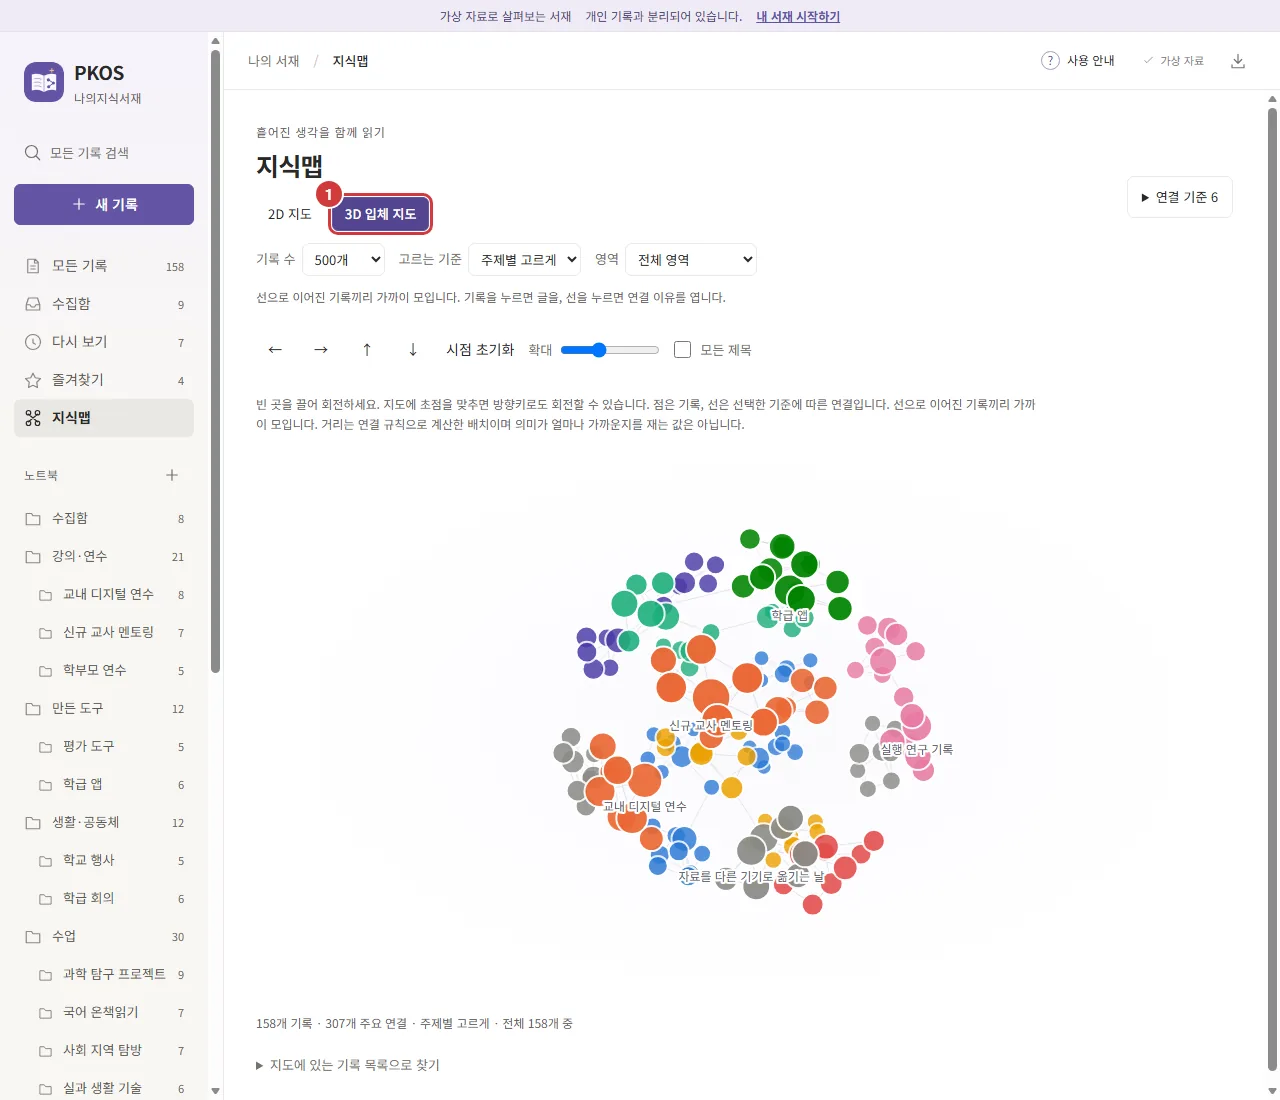
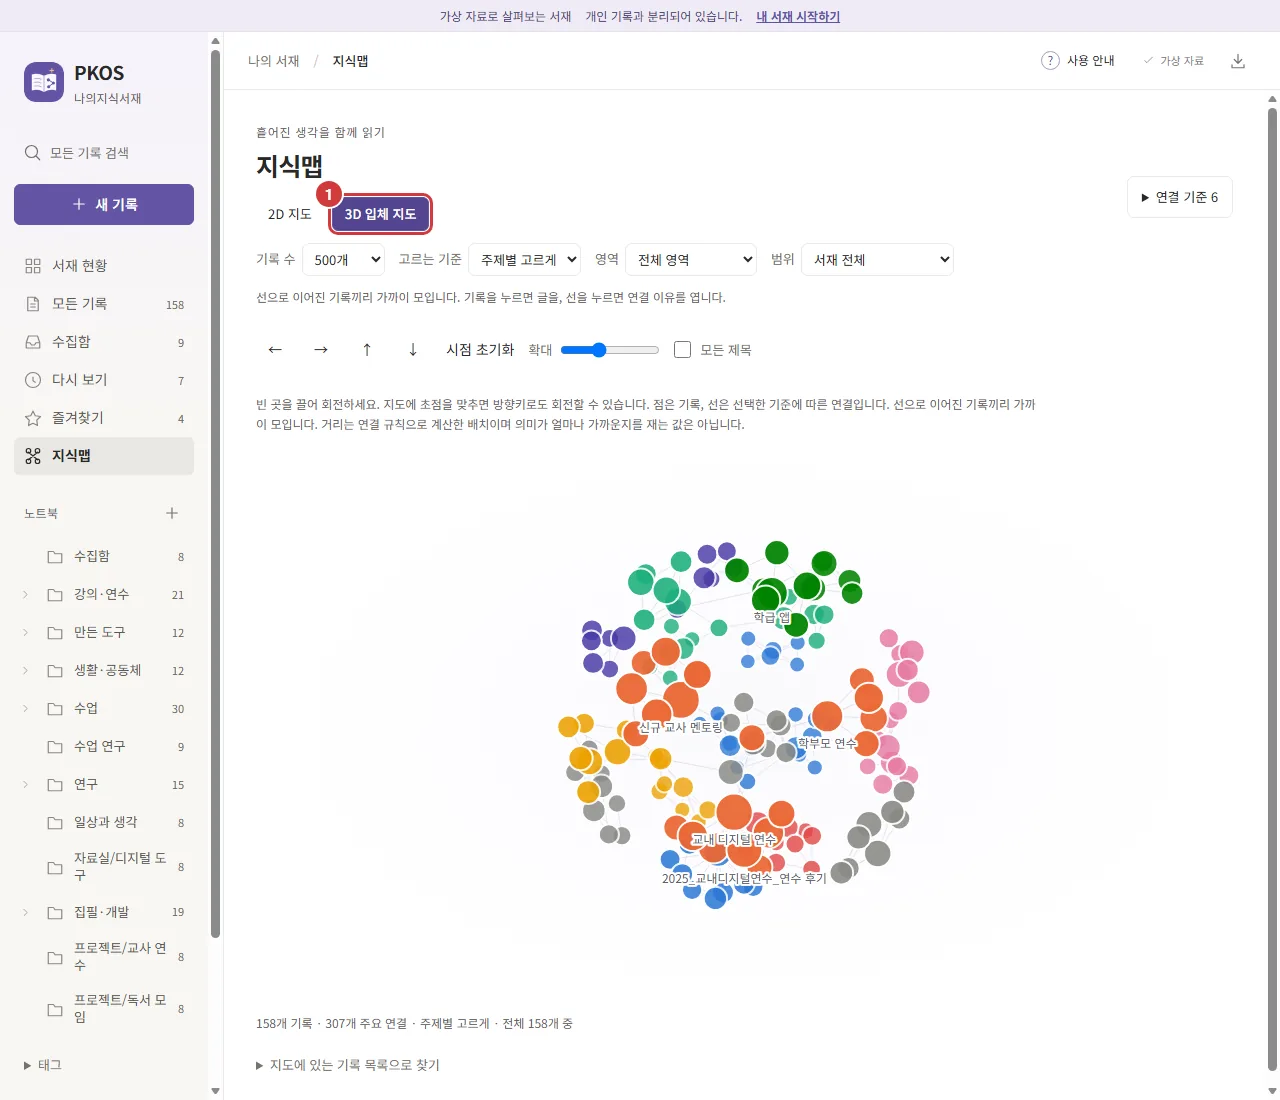
기록장 화면 사진 19장을 최신 판으로, 자료 정보·드라이브 미리보기 안내
- 기록장 사진 19장을 사용 설명서의 새 화면(서재 현황 메뉴, 노트북 접기, 자료 정보 상자, 속성 줄)으로 다시 만듦(같은 크기, WebP 품질 82)
- 03장 카드 읽기: 자료 정보 상자와 묶음 링크, 보기 전용 드라이브 미리보기
- 기록장 소개, 준비물 표의 구글 계정 줄, 만든 과정에 10월 5일

diff --git a/index.html b/index.html
@@ -70,7 +70,7 @@
       <article class="tool" style="--color:var(--blue)">
         <span class="kind">TOOL 1 · 기록장</span><h3>PKOS 나의지식서재</h3><p class="alias">기록하고 연결하는 개인 서재</p>
         <p>메모와 문서, 사진을 한곳에 보관하고 내 생각을 덧붙여 기록끼리 이어 줍니다. 로그인 없이 쓰며 기록은 내 브라우저에 저장됩니다.</p>
-        <ul><li>노트북과 태그로 정리하고 낱말로 찾기</li><li>서재 현황: 출처·연도·주제별 수, 조건 겹쳐 찾기, AI에게 건네기</li><li>문서 본문과 그림 꺼내기</li><li>2D·3D 지식맵</li><li>첨부까지 담는 백업, 마크다운 내보내기</li></ul>
+        <ul><li>노트북과 태그로 정리하고 낱말로 찾기</li><li>서재 현황: 출처·연도·주제별 수, 조건 겹쳐 찾기, AI에게 건네기</li><li>자료 카드의 자료 정보와 구글 드라이브 미리보기(보기 전용)</li><li>문서 본문과 그림 꺼내기</li><li>2D·3D 지식맵</li><li>첨부까지 담는 백업, 마크다운 내보내기</li></ul>
         <div class="toolfoot"><div class="toolbtns"><a class="toolopen" href="https://legoschool.github.io/pkos-library/?demo=1" target="_blank" rel="noopener">체험 서재 열기 ↗</a><a href="https://github.com/legoschool/pkos-library" target="_blank" rel="noopener">깃허브 저장소 ↗</a><a href="#b01">01–05 블록 보기</a></div><img src="qr/lib-repo.svg" alt="기록장 깃허브 저장소 QR 코드" width="96" height="96"></div>
       </article>
       <article class="tool" style="--color:var(--green)">
@@ -118,7 +118,7 @@
       <h3>준비물</h3>
       <div class="tablewrap"><table><thead><tr><th>준비물</th><th>어디에 쓰나</th><th>없을 때</th></tr></thead><tbody>
         <tr><td>PC의 크롬 또는 엣지</td><td>세 도구 모두에 씁니다. 제작기의 폴더 고르기와 기록장의 카드 파일 자동 반영은 PC의 크롬·엣지에서만 됩니다.</td><td>휴대폰에서는 기록장을 읽고 쓰는 데까지 됩니다.</td></tr>
-        <tr><td>구글 계정</td><td>변환기를 코랩에서 실행할 때 필요합니다.</td><td>변환기는 Windows 앱이나 교재판으로 씁니다.</td></tr>
+        <tr><td>구글 계정</td><td>변환기를 코랩에서 실행할 때 필요합니다. 기록장 카드의 「원본 열기」·「드라이브 미리보기」도 그 파일을 볼 수 있는 계정으로 로그인한 브라우저에서 열립니다.</td><td>변환기는 Windows 앱이나 교재판으로 씁니다.</td></tr>
         <tr><td>구글 드라이브 데스크톱 (내 드라이브 자료를 PC에서 쓸 때)</td><td>기록장 카드의 「탐색기」·「경로 복사」, 드라이브에 둔 카드 파일과 백업 폴더 연결, 변환기 Windows 앱·교재판으로 드라이브 폴더를 바꿀 때, 드라이브에 둔 제작기 작업 폴더에 씁니다. 쓰는 폴더는 「오프라인으로 사용」으로 둡니다.</td><td>체험 서재 실습, 기록 쓰기·지식맵·백업 파일, 코랩 변환은 없어도 됩니다.</td></tr>
         <tr><td>깃허브 계정 (선택)</td><td>도구를 내 계정으로 가져갈 때 씁니다(12장).</td><td>바로 쓰기와 파일 받기는 계정 없이도 됩니다.</td></tr>
         <tr><td>휴대폰 (선택)</td><td>QR로 주소를 저장하거나 기록장의 휴대폰 화면을 볼 때 씁니다.</td><td>주소를 직접 입력하면 됩니다.</td></tr>
@@ -184,12 +184,12 @@
       <div class="setupstep"><span class="stepn">2</span><div><h3>실습 카드 파일 받기</h3><p>카드 파일(.pkem)은 여러 기록을 한 파일에 묶어 둔 것으로, 백업 파일과 형식이 같습니다. 가상의 수업·연수·연구 자료 109장이 든 <a href="https://legoschool.github.io/pkos-library/manual/files/practice-1.pkem" download>practice-1.pkem</a>을 내려받습니다.</p></div></div>
       <div class="setupstep"><span class="stepn">3</span><div><h3>설정 · 백업에서 가져오기</h3><p>왼쪽 아래 「설정 · 백업」에서 「백업 파일 가져오기」를 누르고 내려받은 파일을 고릅니다. "109개 기록을 현재 서재에 더합니다"라는 확인 창이 뜨면 「가져오기」를 누릅니다.</p></div></div>
       <div class="setupstep"><span class="stepn">4</span><div><h3>숫자로 확인하기</h3><p>「모든 기록」이 158로 늘어납니다(체험 기록 48 + 02장의 기록 1 + 카드 109). 노트북 목록에는 수업, 강의·연수, 연구, 집필·개발, 만든 도구, 생활·공동체 이렇게 영역 6개가 새로 생깁니다.</p></div></div>
-      <div class="setupstep"><span class="stepn">5</span><div><h3>카드 한 장 열어 보기</h3><p><code>탐구 계획서</code>로 찾아서 카드를 엽니다. 「원본 열기」를 누르면 원래 파일이 새 탭에서 열립니다. 파일 자리에서는 구글 드라이브, 탐색기, 경로 복사 가운데 하나를 고릅니다. 본문 첫 줄의 묶음 이름을 누르면 묶음 카드로 이동합니다.</p></div></div>
+      <div class="setupstep"><span class="stepn">5</span><div><h3>카드 한 장 열어 보기</h3><p><code>탐구 계획서</code>로 찾아서 카드를 엽니다. 「원본 열기」를 누르면 원래 파일이 새 탭에서 열립니다. 「자료 정보」 상자에는 묶음, 형식, 연도, 원래 이름과 파일 자리(웹 주소, 탐색기, 경로 복사)가 있고, 묶음 이름을 누르면 묶음 카드로 이동합니다. 내 구글 드라이브 자료로 만든 카드는 「드라이브 미리보기」로 원본을 이 화면 안에서 봅니다. 미리보기는 보기 전용이라 그 칸에서는 내려받기·인쇄·새 창 열기가 막혀 있고, 그 파일을 볼 권한이 있는 계정으로 로그인한 브라우저에서만 보입니다.</p></div></div>
       <div class="photogrid">
         <figure><button class="photobutton" type="button"><img src="img/lib-search.webp" alt="기록 찾기 칸에 근거를 넣은 화면" data-number="03-1" loading="lazy"></button><figcaption><span class="photonum">사진 03-1</span>「기록 찾기」에 <code>근거</code>를 넣은 화면입니다. 지금 고른 보기와 노트북 안에서 찾습니다.</figcaption></figure>
         <figure><button class="photobutton" type="button"><img src="img/lib-import-ask.webp" alt="가져오기 확인 창" data-number="03-2" loading="lazy"></button><figcaption><span class="photonum">사진 03-2</span>가져오기 확인 창입니다. 더할 기록 수를 확인하고 「가져오기」를 누릅니다.</figcaption></figure>
-        <figure><button class="photobutton" type="button"><img src="img/lib-imported.webp" alt="카드 파일을 가져온 직후" data-number="03-3" loading="lazy"></button><figcaption><span class="photonum">사진 03-3</span>가져온 직후의 화면입니다. 「모든 기록」이 158이 되었고 영역과 묶음 노트북이 생겼습니다.</figcaption></figure>
-        <figure><button class="photobutton" type="button"><img src="img/lib-card.webp" alt="자료 카드 한 장의 읽기 화면" data-number="03-4" loading="lazy"></button><figcaption><span class="photonum">사진 03-4</span>카드 한 장을 연 화면입니다. ① 원본 열기, ② 파일 자리, ③ 묶음 링크입니다.</figcaption></figure>
+        <figure><button class="photobutton" type="button"><img src="img/lib-imported.webp" alt="카드 파일을 가져온 직후" data-number="03-3" loading="lazy"></button><figcaption><span class="photonum">사진 03-3</span>가져온 직후의 화면입니다. 「모든 기록」이 158이 되었고 영역과 묶음 노트북이 생겼습니다. 노트북이 스물네 개를 넘으면 묶음은 영역 아래에 접혀 있고, 영역 이름이나 왼쪽 화살표를 누르면 펼쳐집니다.</figcaption></figure>
+        <figure><button class="photobutton" type="button"><img src="img/lib-card.webp" alt="자료 카드 한 장의 읽기 화면" data-number="03-4" loading="lazy"></button><figcaption><span class="photonum">사진 03-4</span>카드 한 장을 연 화면입니다. ① 원본 열기, ② 자료 정보와 파일 자리, ③ 묶음 링크입니다.</figcaption></figure>
       </div>
       <aside class="callout"><h3>같은 파일을 다시 가져와도 괜찮습니다</h3><p>기록마다 고유 번호가 있어서 같은 카드가 두 번 생기지 않습니다. 카드 파일의 새 판을 가져오면 손대지 않은 카드는 새 내용으로 바뀌고 내가 고친 카드는 그대로 남습니다. 파일 고르기 창에서 파일이 보이지 않을 때는 Ctrl+J로 다운로드 목록을 열어 위치를 확인하세요.</p></aside>
     </div>
@@ -480,6 +480,7 @@ python pkos.py --자가진단</code></pre></div>
         <li><time>2026.09.28</time><span>기록장을 다시 설계해 서버 없이 브라우저에 저장하는 나의지식서재를 열었습니다.</span></li>
         <li><time>2026.10.01</time><span>드라이브 자료 사본 7,203개를 카드 5,087장으로 넣어 직접 써 보면서 지식맵과 속도를 고쳤습니다.</span></li>
         <li><time>2026.10.02</time><span>사용 설명서와 실습 카드를 만들었습니다. 세 도구도 깃허브에서 가져갈 수 있게 정리했습니다.</span></li>
+        <li><time>2026.10.05</time><span>연수 뒤 기록장을 정비했습니다. 「서재 현황」과 조건 찾기를 넣고, 문서 카드 5,000장에 본문 앞부분(스캔한 PDF는 글자 인식으로)을 채웠고, 카드 안 구글 드라이브 미리보기는 보기 전용으로 두었습니다. 자료변환기 읽기 엔진도 고쳤습니다.</span></li>
       </ol>
       <h3>써 보며 고친 것</h3>
       <ul>
